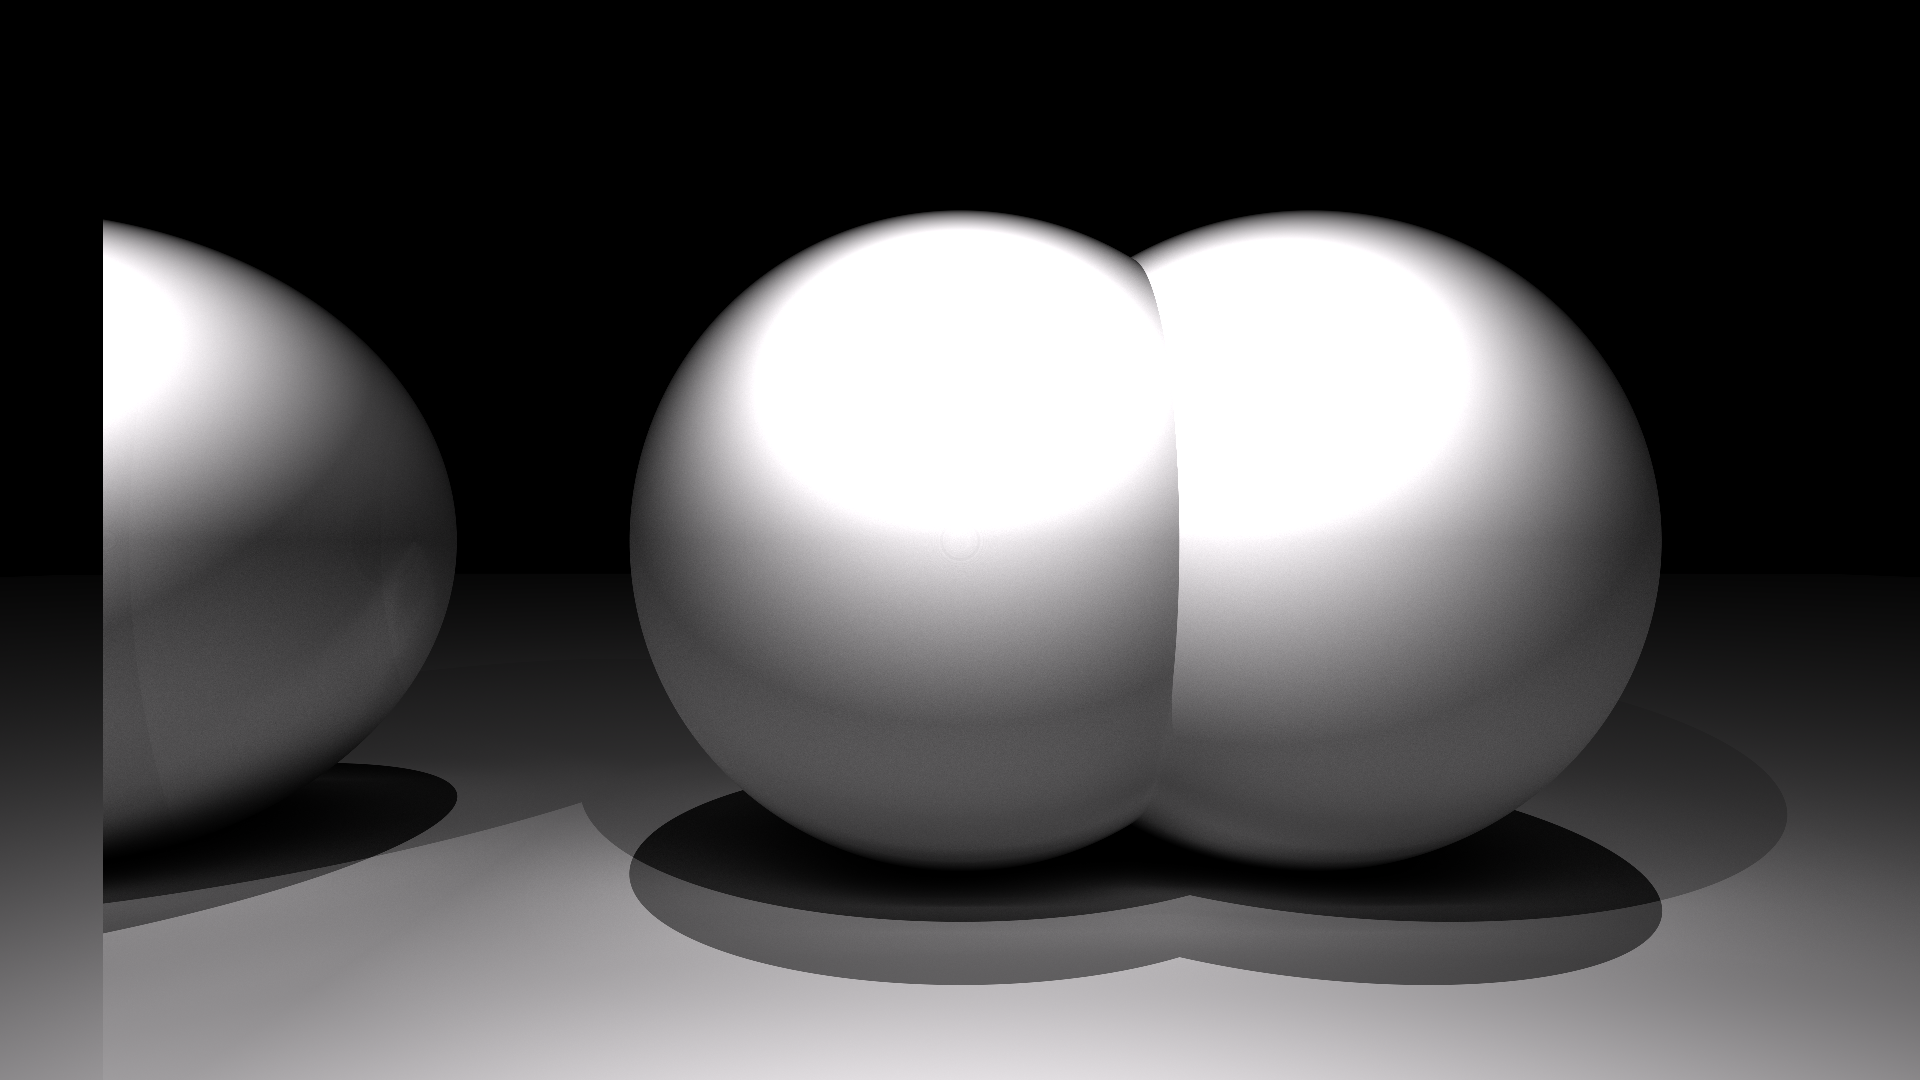
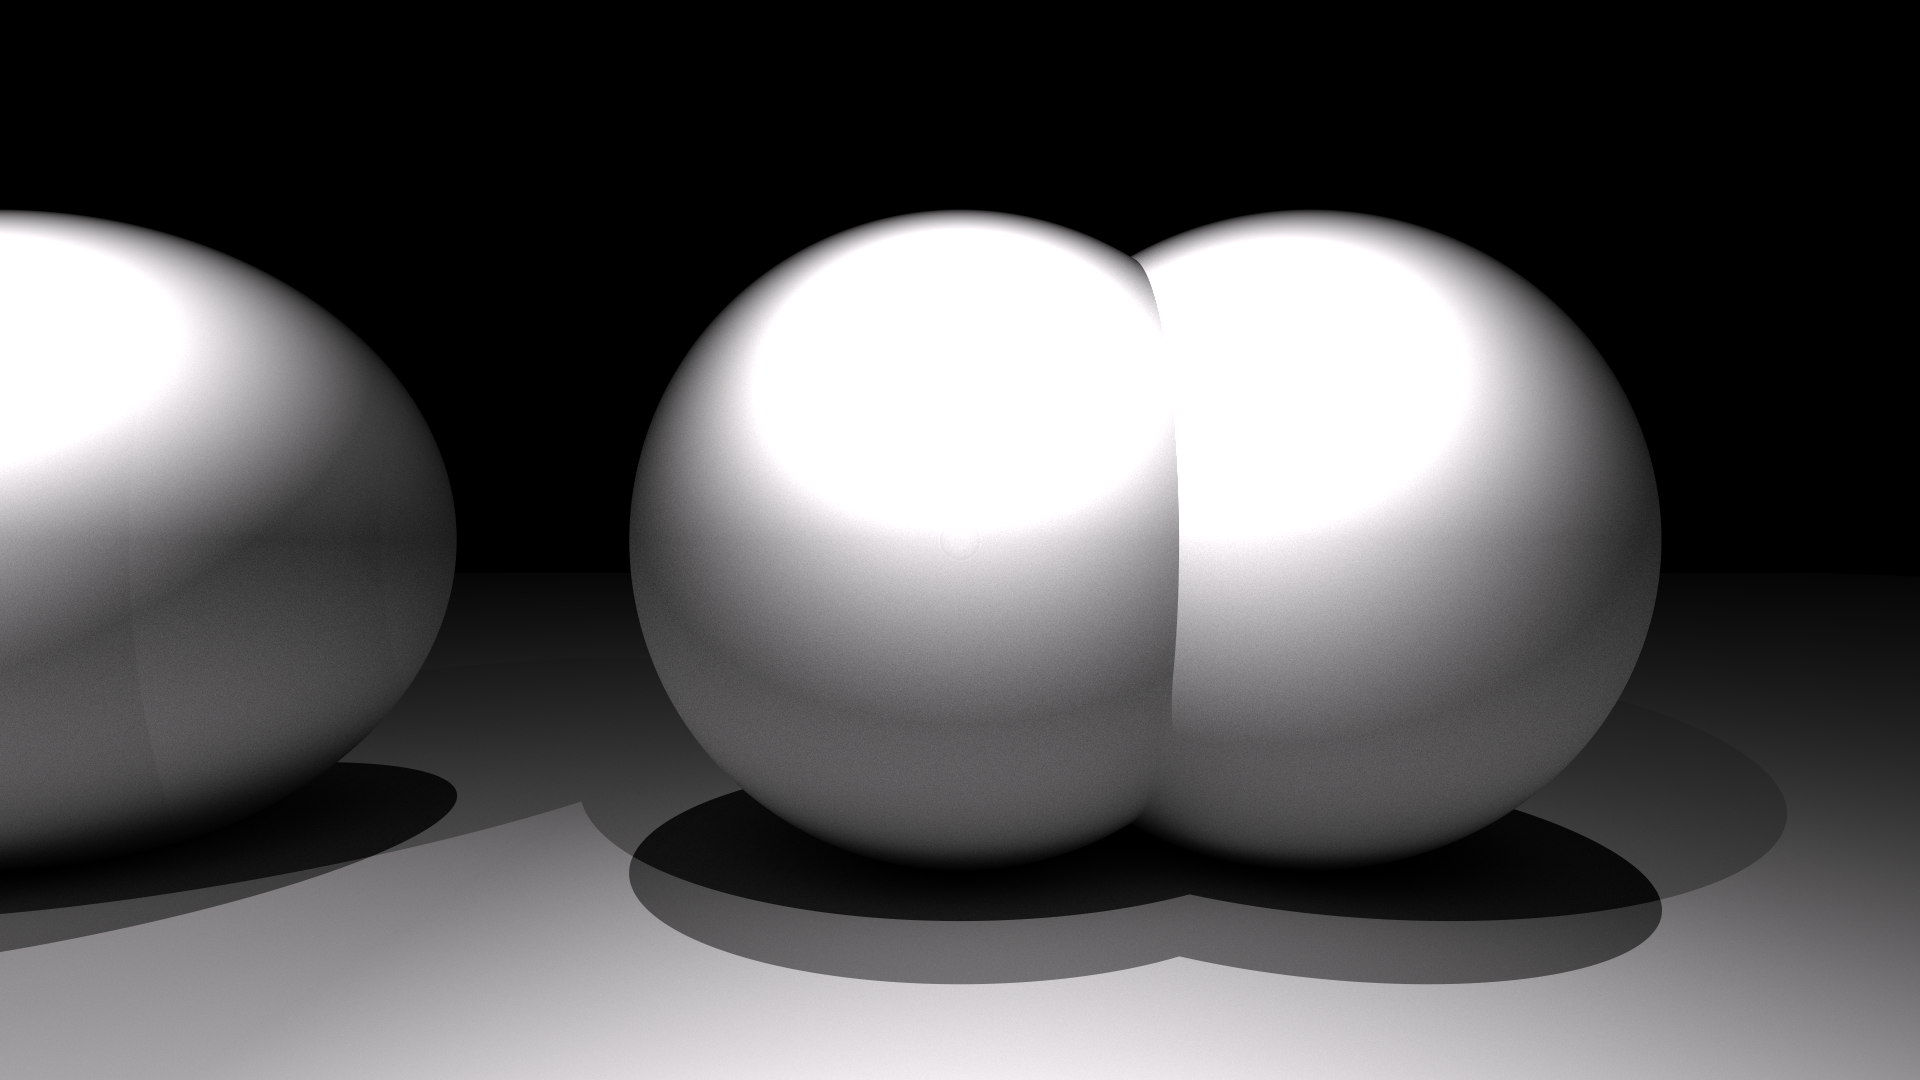
Fixed a bug where rendering aberrations manifesting as white stripes would appear. Replaced the example image with the corrected version. Added some missing documentation.

Changed region(s): [[0.0, 0.1833, 0.0625, 1.0], [0.5625, 0.825, 0.625, 0.8556]]

diff --git a/src/shader.rs b/src/shader.rs
@@ -1,6 +1,6 @@
 use std::f32::consts::PI;
 use std::sync::Arc;
-use nalgebra::{point, vector, Const, Matrix3, OMatrix, OPoint, Point3, Rotation3, Vector3};
+use nalgebra::{point, vector, Const, OMatrix, OPoint, Point3, Rotation3, Vector3};
 use crate::{UICamera, UILight, UIObject, UIObjectType};
 use crate::spectrum::Spectrum;
 
@@ -394,11 +394,8 @@ fn hit_shader(ray: &mut Ray, aabb: &Aabb, ray_intersection_length: f32, uniforms
         //indirect light contribution (diffuse - random - light ray bounces)
         if ray.max_bounces > 1 {
             let (random_x, random_y, _) = random_pcg3d(ray.original_pixel_pos.x,    //TODO do in front of if and use third random for metallicness
-                                                       ray.original_pixel_pos.y, uniforms.frame_id);
-            let theta = random_x.sqrt().asin(); //importance sampling of a sphere, therefore no direction correction necessary later
-            let phi = 2.0 * PI * random_y;
-            let local_direction = vector![theta.sin() * phi.cos(), theta.sin() * phi.sin(), theta.cos()];
-            let new_direction = get_normal_space2(&normal) * local_direction;
+                                                       ray.original_pixel_pos.y, uniforms.frame_id + ray.max_bounces);
+            let new_direction = global_space_random_bounce_direction(random_x, random_y, &normal);  //importance sampling of a sphere, therefore no direction correction necessary later
             let mut new_ray = Ray::new(intersection_point, new_direction,
                                    ray.max_bounces - 1, ray.original_pixel_pos, &ray.spectrum);
             submit_ray(&mut new_ray, uniforms);
@@ -410,18 +407,6 @@ fn hit_shader(ray: &mut Ray, aabb: &Aabb, ray_intersection_length: f32, uniforms
     }
     
     ray.spectrum = &aabb.reflective_spectrum * &received_spectrum;
-}
-
-/// https://www.gsn-lib.org/apps/raytracing/index.php?name=example_emissivesphere
-fn get_normal_space2(normal: &Vector3<f32>) -> Matrix3<f32> {
-    let some_vec = Vector3::<f32>::new(1.0, 0.0, 0.0);
-    let dd = some_vec.dot(normal);
-    let mut tangent = Vector3::<f32>::new(0.0, 1.0, 0.0);
-    if 1.0 - dd.abs() > F32_DELTA {
-        tangent = some_vec.cross(normal).normalize()
-    }
-    let bi_tangent = normal.cross(&tangent);
-    Matrix3::from_columns(&[tangent, bi_tangent, *normal])
 }
 
 /// The miss shader. It is called on a submitted ray if this ray does ultimately not hit anything. 
@@ -496,6 +481,8 @@ fn ray_sphere_intersection(ray: &Ray, sphere_pos: &Point3<f32>, sphere_rad: f32)
     }
 }
 
+/// Calculates the potential intersections of a ray and a plain box. Returns the length of the ray 
+/// upon hitting the sides iff the ray intersects the box, else None. 
 fn ray_aabb_intersection(ray_origin: &Point3<f32>, ray_direction: &Vector3<f32>, 
                          point_min: &Point3<f32>, point_max: &Point3<f32>) -> Option<(f32, f32)> {
     let mut t_min = f32::NEG_INFINITY;
@@ -523,6 +510,8 @@ fn ray_aabb_intersection(ray_origin: &Point3<f32>, ray_direction: &Vector3<f32>,
     Some((t_min, t_max)) 
 }
 
+/// Calculates the potential intersections of a ray and a rotated box. Returns the length of the ray 
+/// upon hitting the sides iff the ray intersects the box, else None. 
 fn ray_oriented_box_intersection(ray_origin: &Point3<f32>, ray_direction: &Vector3<f32>, position: &Point3<f32>,
                                  dimensions: &Vector3<f32>, rotation: &Rotation3<f32>, ) -> Option<(f32, f32)> {
     //build the box's world-to-local transform
@@ -544,6 +533,7 @@ fn ray_oriented_box_intersection(ray_origin: &Point3<f32>, ray_direction: &Vecto
     )
 }
 
+/// Calculate the normal for a given hit on a plain box. 
 fn plain_box_normal_calculation(aabb: &Aabb, intersection_point: OPoint<f32, Const<3>>) -> OMatrix<f32, Const<3>, Const<1>> {
     let x = if (intersection_point.x - aabb.min.x).abs() < F32_DELTA {
         -1.0
@@ -569,6 +559,7 @@ fn plain_box_normal_calculation(aabb: &Aabb, intersection_point: OPoint<f32, Con
     vector![x, y, z].normalize()
 }
 
+/// Calculates the normal for a given hit on a rotated box. 
 pub fn rotated_box_normal_calculation(pos: &Point3<f32>, dim: &Vector3<f32>, rotation: &Rotation3<f32>,
                                       intersection_point: &Point3<f32>) -> Vector3<f32> {
     let inv_rotation = rotation.inverse();
@@ -672,4 +663,22 @@ fn random_pcg3d(mut x: u32, mut y: u32, mut z: u32) -> (f32, f32, f32) {    //TO
 /// The incident must point towards the normal, not away as one might think.
 fn reflect_vec(incident: &Vector3<f32>, normal: &Vector3<f32>) -> Vector3<f32> {
     incident - 2.0 * normal.dot(incident) * normal
+}
+
+/// Generates a random bounce direction for a given direction. <br>
+/// Takes two random variables in range \[0; 1] as well as a normal. The two random variables are 
+/// used to generate a local vector in a hemisphere pointing in the positive Z direction. The 
+/// local vector is then rotated in such a way that the hemisphere aligns with the normal. 
+fn global_space_random_bounce_direction(random_x: f32, random_y: f32, normal: &Vector3<f32>) -> Vector3<f32> {
+    //importance sampling 
+    let theta = random_x.sqrt().asin(); 
+    let phi = 2.0 * PI * random_y;
+    let local_direction = vector![theta.sin() * phi.cos(), theta.sin() * phi.sin(), theta.cos()];
+    
+    //transforming the local direction into global
+    let mut up = Vector3::y();
+    if normal.dot(&up).abs() > 0.9999 {
+        up = Vector3::x();
+    }
+    Rotation3::face_towards(normal, &up) * local_direction
 }

diff --git a/src/text_resources.rs b/src/text_resources.rs
@@ -9,7 +9,9 @@ pub const NUMBER_OF_ITERATIONS_TOOLTIP: &str  = "The number of frames generated 
     image. Higher numbers take proportionally more time to render, but reduce the noise in the \
     image, as well as make the lighting more correct. For decent results, use numbers greater than \
     100. For good results, greater than 1000.";
-pub const MAX_BOUNCES_TOOLTIP: &str = "The maximum number of bounces a ray will make. Lower \
+pub const MAX_BOUNCES_TOOLTIP: &str = "The maximum number of rays that will be traced. 1 means only \
+    the direct light of the hit object is considered. 2 means one additional ray will be shot to hit \
+    other objects. 2 means the new hit object shoots one additional ray, etc. Lower \
     numbers mean better performance, but light will spread less and the image will look darker. \
     Use 30 as a default.";
 

diff --git a/src/main.rs b/src/main.rs
@@ -202,7 +202,7 @@ impl App {
     fn display_max_bounces_edit_field(&mut self, ui: &mut Ui) {
         ui.vertical_centered(|ui| {
             ui.horizontal_top(|ui| {
-                ui.label("Max bounces per ray:").on_hover_text(MAX_BOUNCES_TOOLTIP);
+                ui.label("Maximum recursion depth:").on_hover_text(MAX_BOUNCES_TOOLTIP);
                 ui.add(egui::Slider::new(&mut self.ui_values.nbr_of_ray_bounces, 1..=NEW_RAY_MAX_BOUNCES_MAX));
                 if ui.button(" - ").clicked() {
                     self.ui_values.nbr_of_ray_bounces -= 1;
@@ -599,7 +599,6 @@ impl App {
                         }
                     }
                 });
-                //todo!()
             }
         }
 
